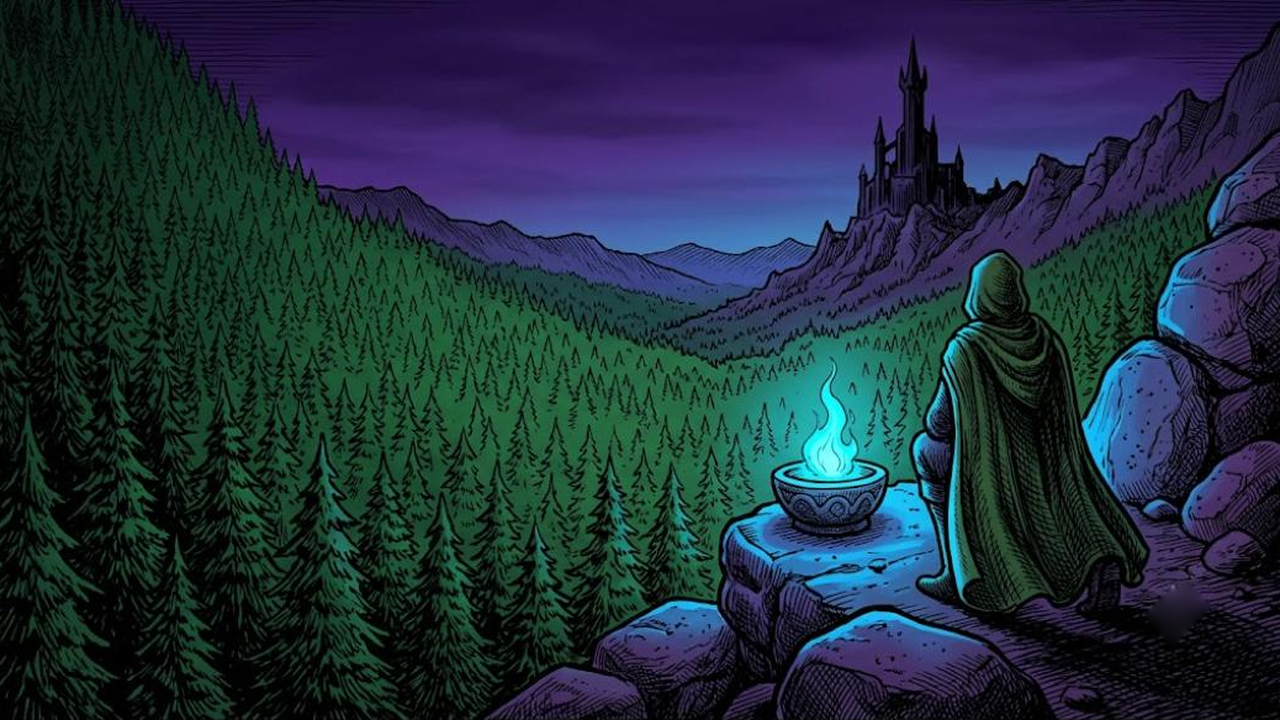
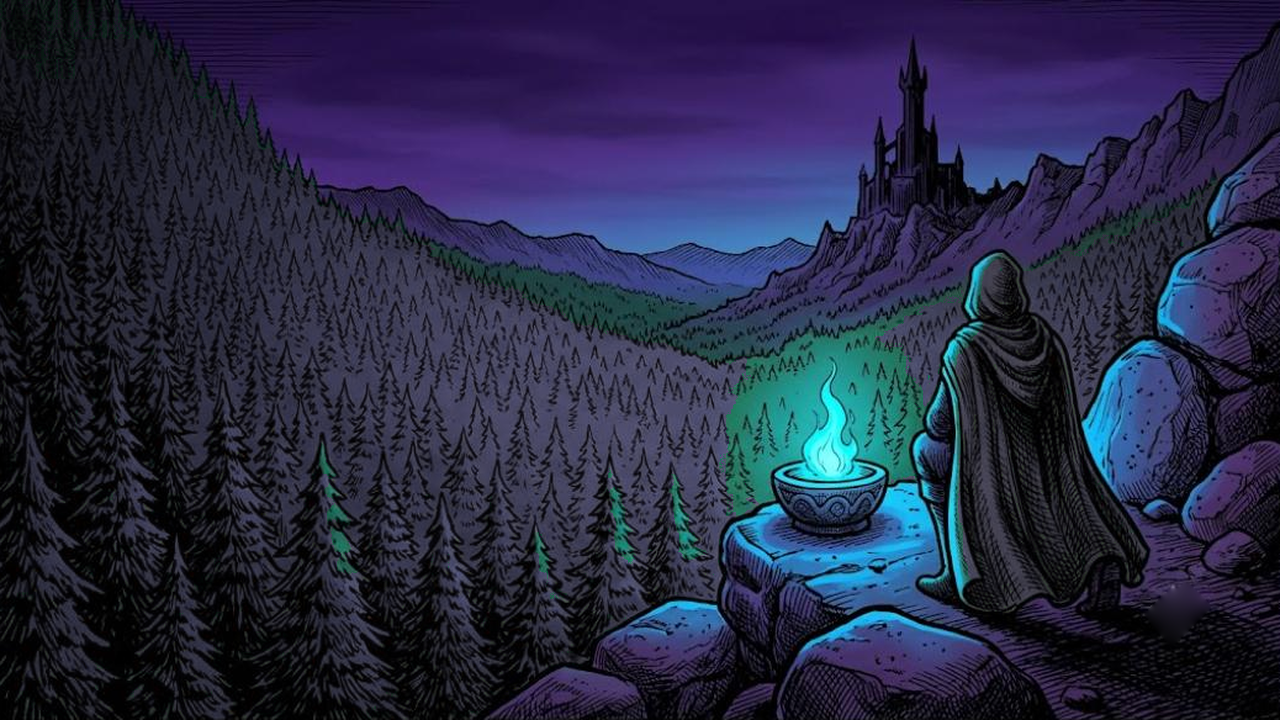
Take the green out of the title screen, and out of its brief
Measured: main_menu.png was 41.5% green against bg_crypt.png — the style
bible attached to every generation request — at 0.0%. The largest hue mass
in the game's front door was a hue that appears nowhere in its reference,
and the green forest and green cloak were a second saturated mass
competing with the cyan flame in a style whose rule is ONE saturated light
source.

The palette line was not the problem. The style block has said "cool
desaturated violet-grey stone base" on every request since D100; the
subject line said "a valley of firs", and firs are green. A concrete noun
beats an adjective — D101 and D108 in a third place. The brief now names
the colour where the noun is instead of trusting the palette line to win
an argument it has already lost twice.

Graded rather than re-rolled: the composition took three attempts to land
and only the hue was wrong. tools/regrade.gd moves one hue band into
another in place. The remap runs DESCENDING so the tealest greens stay
nearest the cyan flame they sit beside — ascending would have put the
forest's warm edge next to the one saturated light source. Moved pixels
lose 55% of their saturation, because a saturated blue forest is the same
defect in a new hue.

Green 41.5% -> 0.0%, blue 22.4% -> 57.6%, cyan unchanged at 7.5% (the
flame survived, which is the point), mean saturation 0.61 -> 0.47.

It refuses to run twice: a grade applied to its own output walks the hue
[…]

diff --git a/ART_PROMPTS.md b/ART_PROMPTS.md
@@ -8,7 +8,7 @@ same reason: a hand-kept prompt sheet goes stale, and a prompt naming an enemy
 the game no longer has produces a painting with nowhere to go. The *why* is
 [ART.md](ART.md); that file is the shopping list; this one is the wording.
 
-**107 files can be generated.** The rest of the list cannot, and the sections below
+**105 files can be generated.** The rest of the list cannot, and the sections below
 say which and why — the expensive mistake is not a bad painting, it is a good
 painting of a thing that had to be computed.
 
@@ -27,7 +27,7 @@ painting of a thing that had to be computed.
    stronger constraint on palette and line weight than any adjective. `main_menu.jpg`
    is what a request without it looks like.
 3. **Paste the style block below unchanged, then one subject line.** Do not
-   improve it between images. Its job is to be identical 107 times.
+   improve it between images. Its job is to be identical 105 times.
 
 ```
 Painted dark-fantasy storybook illustration, in the style of the attached reference image.
@@ -204,12 +204,10 @@ A filled 4:3 rectangle, not a cutout — the picture band across the top of a ca
 
 A LAYER, not a picture: this is drawn ON TOP of a finished illustration, so most of the image must be EMPTY BLACK — pure #000000, which the game adds rather than blends, so black is invisible and only the light shows. Paint ONLY the effect and leave everything else black. It must be MONOCHROME, a single warm-white light, because the game tints it to the card's rarity colour; any colour painted in fights that tint. Keep the effect to the EDGES of the frame and the area behind where a subject would stand — the middle must stay clear enough to read the illustration through, and the FOUR CORNERS must stay completely black because the game draws the cost and the damage over them. No text, no numerals, no symbols, no runes, no object: this is light, not a thing. The three steps must read as ESCALATION at a glance and at thumbnail size, which means each one is bigger and brighter than the last rather than merely different.
 
-**6 to generate.** Style block above, then one of these as the last line:
+**4 to generate, 2 already present.** Style block above, then one of these as the last line:
 
 | save as | size | subject |
 |---|---|---|
-| `fx/lvl_card_1.png` | 320x240 | First milestone on the illustration band of a card — a third of the way up its track. The FAINTEST of the three: a thin arc of light along the lower edge and a breath of glow creeping in from the two lower corners. Barely there; it should read as 'this one has been touched' and nothing louder. |
-| `fx/lvl_card_2.png` | 320x240 | Second milestone on the illustration band of a card — two thirds up. The arc has closed into a full thin ring of light around the whole subject area, brighter than the first, with a few small sparks lifting off it. Still clear in the middle. |
 | `fx/lvl_card_max.png` | 320x240 | MAXED on the illustration band of a card — the end of the track and the one state a player is working toward, so it must be unmistakable and different in KIND, not just brighter. A full radiant corona breaking outward past the ring, thick rays reaching to the frame edges, the whole border alight. The middle is still readable but everything around it is burning. |
 | `fx/lvl_power_1.png` | 128x128 | First milestone on a power sigil — a third of the way up its track. The FAINTEST of the three: a thin arc of light along the lower edge and a breath of glow creeping in from the two lower corners. Barely there; it should read as 'this one has been touched' and nothing louder. |
 | `fx/lvl_power_2.png` | 128x128 | Second milestone on a power sigil — two thirds up. The arc has closed into a full thin ring of light around the whole subject area, brighter than the first, with a few small sparks lifting off it. Still clear in the middle. |

diff --git a/ART_ASSETS.md b/ART_ASSETS.md
@@ -7,7 +7,7 @@ Every image the game will look for, generated from the content catalogues so it
 cannot fall out of step with them. The *why* behind all of it is [ART.md](ART.md);
 this is the shopping list.
 
-**312 files wanted · 205 already present · 107 to provide.**
+**312 files wanted · 207 already present · 105 to provide.**
 
 Paths are relative to `assets/art/`. Author UI assets at **2x** and downsample.
 The interface is laid out at a FIXED 1280x720 and the engine's `canvas_items`
@@ -277,12 +277,12 @@ sets NEAREST globally for the pixel assets, which would alias smooth art.
 
 ## Tier 3c — level-progress overlays
 
-*6 files, 6 still to provide.* Six files that serve every card and every power at every rarity. Composited over the art, not painted into it.
+*6 files, 4 still to provide.* Six files that serve every card and every power at every rarity. Composited over the art, not painted into it.
 
 | ? | file | size | what it is |
 |---|---|---|---|
-|   | `fx/lvl_card_1.png` | 320x240 | First milestone on the illustration band of a card — a third of the way up its track. The FAINTEST of the three: a thin arc of light along the lower edge and a breath of glow creeping in from the two lower corners. Barely there; it should read as 'this one has been touched' and nothing louder. |
-|   | `fx/lvl_card_2.png` | 320x240 | Second milestone on the illustration band of a card — two thirds up. The arc has closed into a full thin ring of light around the whole subject area, brighter than the first, with a few small sparks lifting off it. Still clear in the middle. |
+| x | `fx/lvl_card_1.png` | 320x240 | First milestone on the illustration band of a card — a third of the way up its track. The FAINTEST of the three: a thin arc of light along the lower edge and a breath of glow creeping in from the two lower corners. Barely there; it should read as 'this one has been touched' and nothing louder. |
+| x | `fx/lvl_card_2.png` | 320x240 | Second milestone on the illustration band of a card — two thirds up. The arc has closed into a full thin ring of light around the whole subject area, brighter than the first, with a few small sparks lifting off it. Still clear in the middle. |
 |   | `fx/lvl_card_max.png` | 320x240 | MAXED on the illustration band of a card — the end of the track and the one state a player is working toward, so it must be unmistakable and different in KIND, not just brighter. A full radiant corona breaking outward past the ring, thick rays reaching to the frame edges, the whole border alight. The middle is still readable but everything around it is burning. |
 |   | `fx/lvl_power_1.png` | 128x128 | First milestone on a power sigil — a third of the way up its track. The FAINTEST of the three: a thin arc of light along the lower edge and a breath of glow creeping in from the two lower corners. Barely there; it should read as 'this one has been touched' and nothing louder. |
 |   | `fx/lvl_power_2.png` | 128x128 | Second milestone on a power sigil — two thirds up. The arc has closed into a full thin ring of light around the whole subject area, brighter than the first, with a few small sparks lifting off it. Still clear in the middle. |
